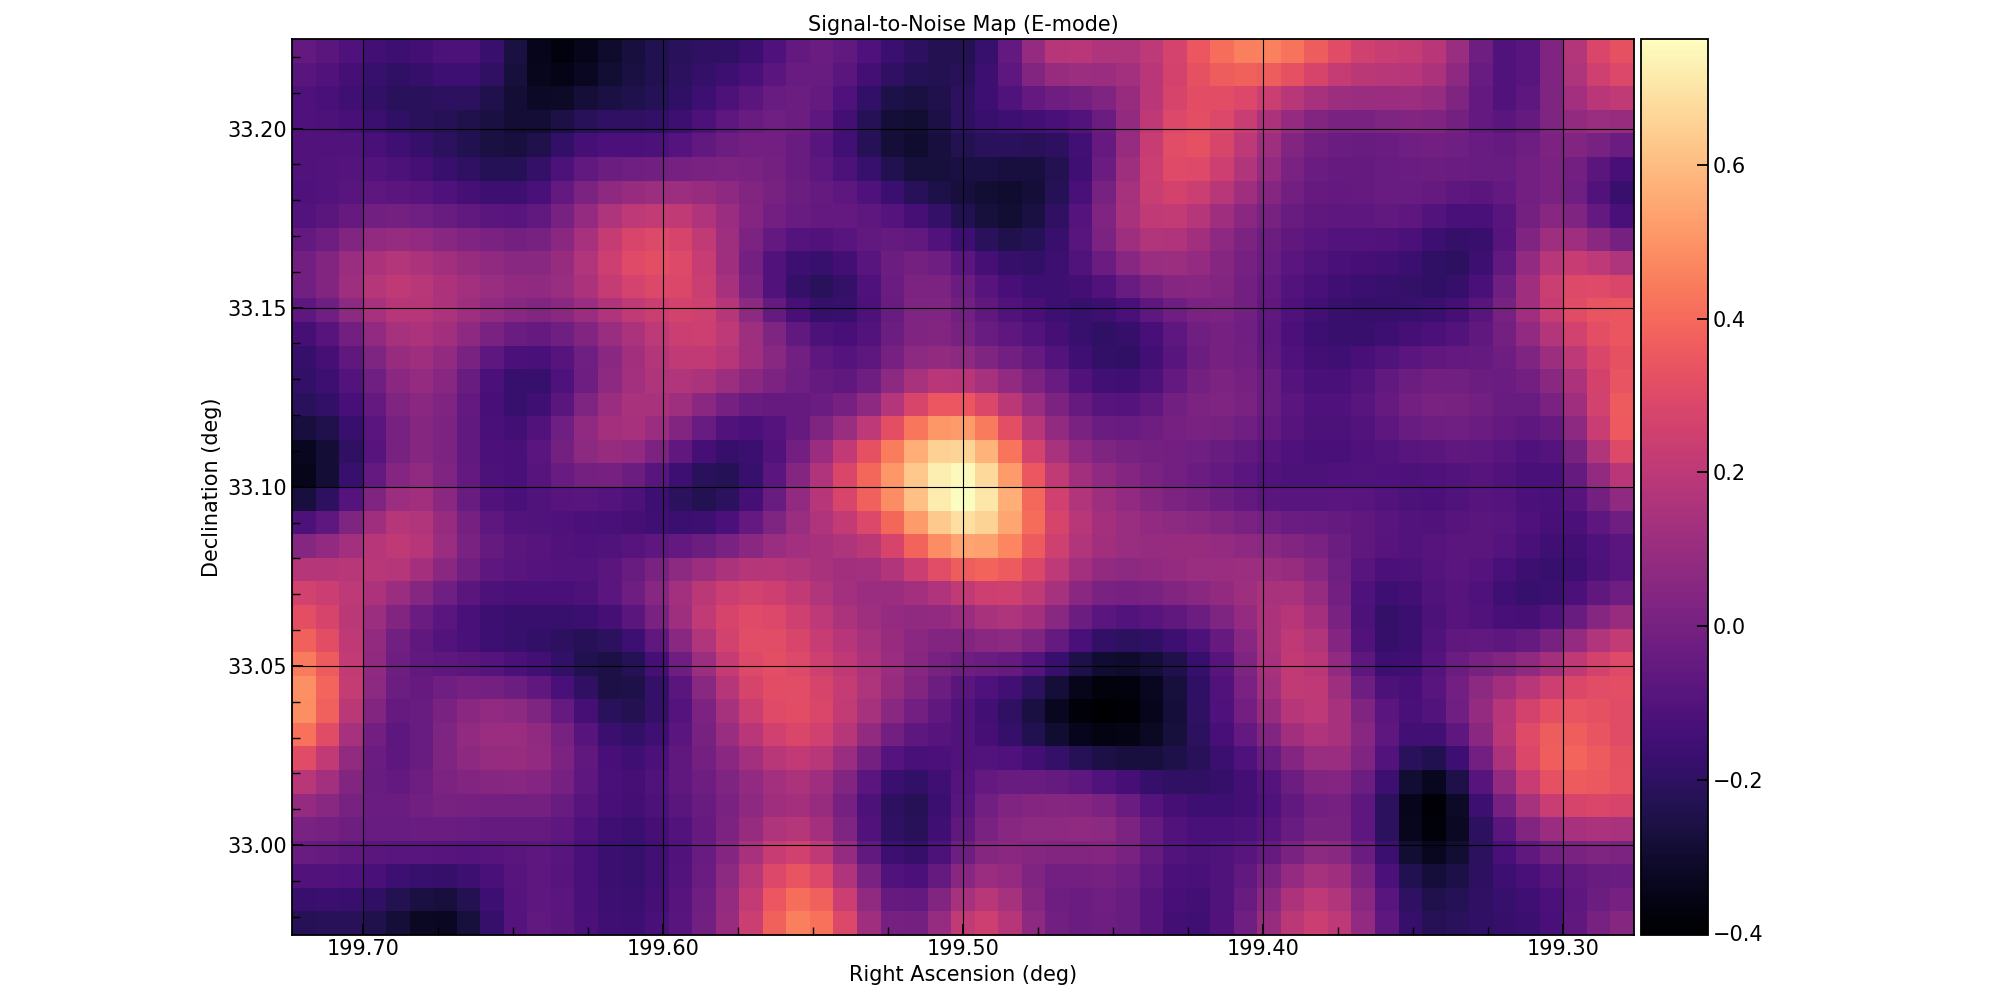
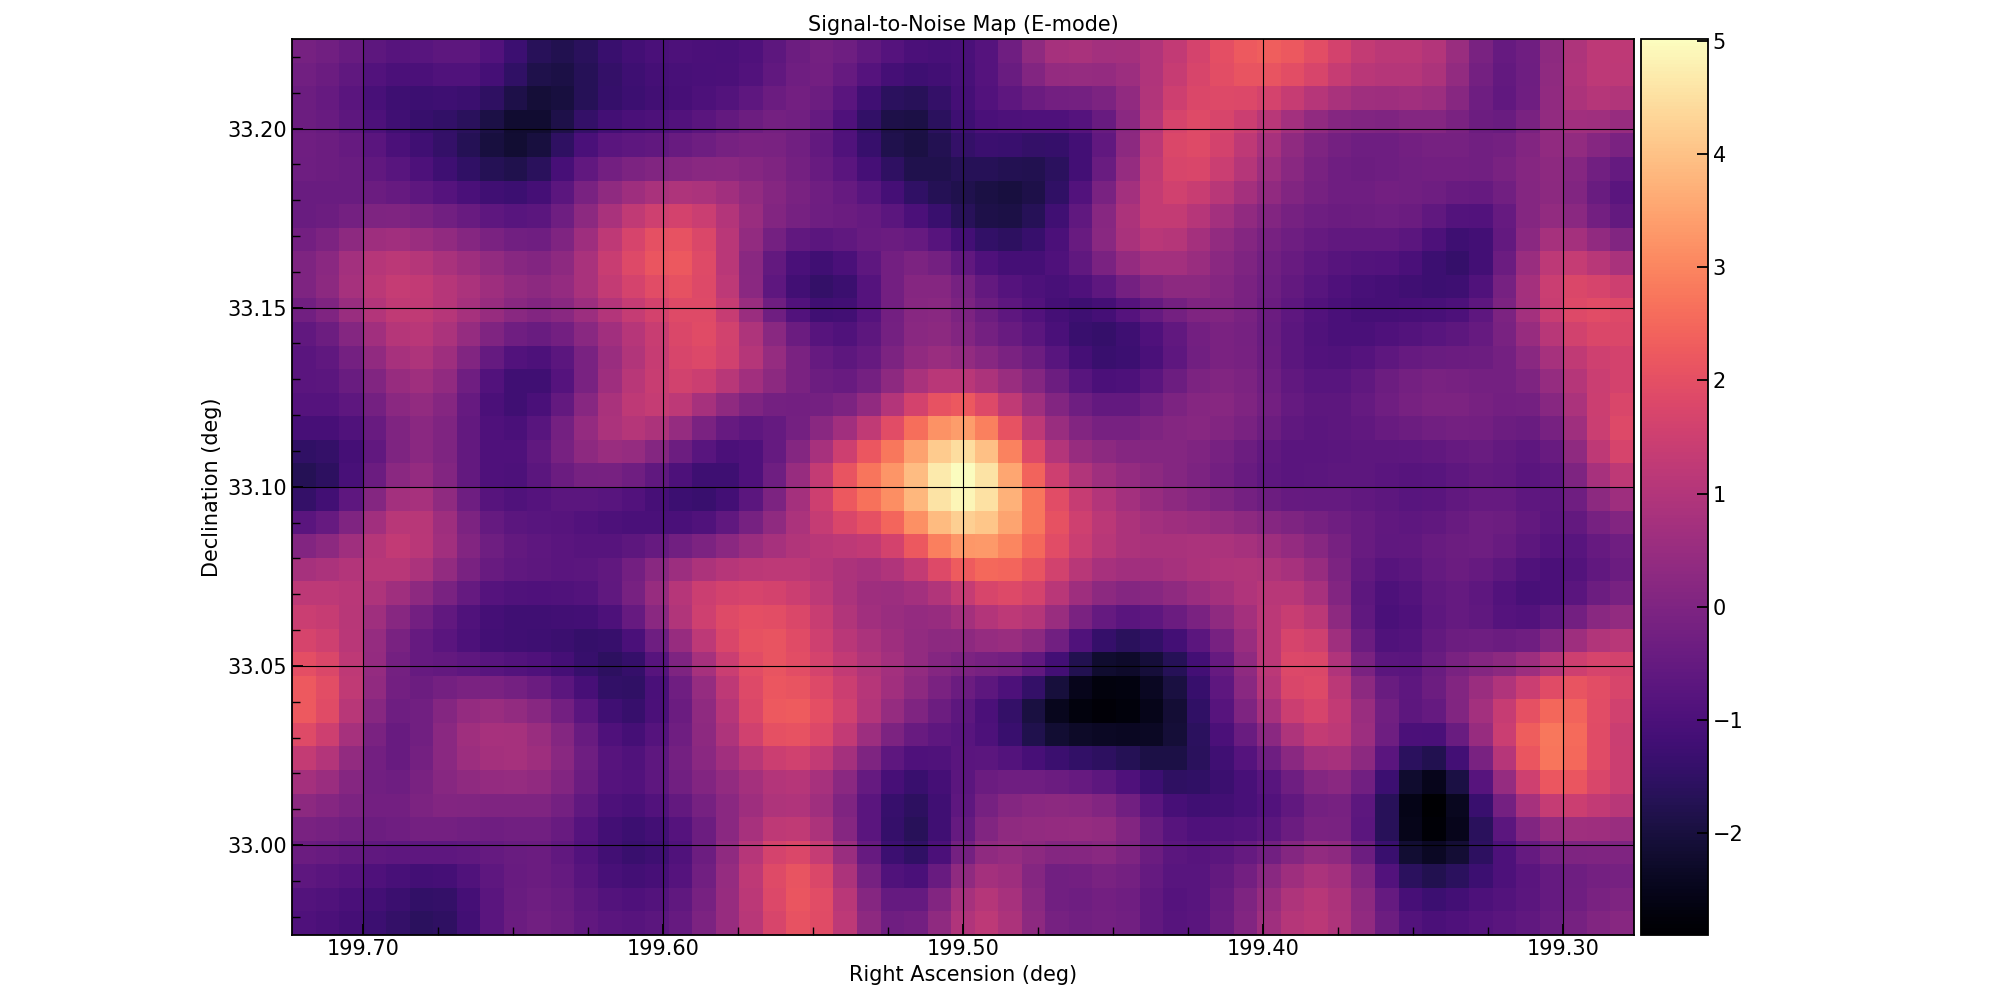
Organize run.py smoothing logic

diff --git a/smpy/error_quantification/snr/run.py b/smpy/error_quantification/snr/run.py
@@ -60,37 +60,35 @@ def create_sn_map(config, convergence_maps, scaled_boundaries, true_boundaries):
     # Calculate kappa for shuffled maps
     kappa_e_list, kappa_b_list = ks_inversion_list(g1_g2_map_list)
 
-    # Smoothing each individual shuffled map before taking the variance!! 
-    filtered_kappa_e_list = []
-    for element in kappa_e_list: 
-        element = gaussian_filter(element, config['gaussian_kernel'])
-        filtered_kappa_e_list.append(element)
-
-    filtered_kappa_b_list = []
-    for element in kappa_b_list: 
-        element = gaussian_filter(element, config['gaussian_kernel'])
-        filtered_kappa_b_list.append(element)
+    # Process maps - either smooth or keep as is
+    if config['smoothing'] == 'gaussian_filter':
+        processed_kappa_e_list = [gaussian_filter(k, config['gaussian_kernel']) for k in kappa_e_list]
+        processed_kappa_b_list = [gaussian_filter(k, config['gaussian_kernel']) for k in kappa_b_list]
+    else:
+        processed_kappa_e_list = kappa_e_list
+        processed_kappa_b_list = kappa_b_list
     
     # Calculate variance maps
-    variance_map_e = np.var(np.stack(filtered_kappa_e_list, axis=0), axis=0) if filtered_kappa_e_list else None
-    variance_map_b = np.var(np.stack(filtered_kappa_b_list, axis=0), axis=0) if filtered_kappa_b_list else None
+    variance_map_e = np.var(np.stack(processed_kappa_e_list, axis=0), axis=0)
+    variance_map_b = np.var(np.stack(processed_kappa_b_list, axis=0), axis=0)
     
-    # Initialize dictionary for signal-to-noise maps
+    # Create SNR maps
     sn_maps = {}
     
-    # Calculate signal-to-noise maps if the respective mode exists
-    if 'E' in convergence_maps and variance_map_e is not None:
-        smoothed_convergence_map_e = gaussian_filter(convergence_maps['E'], config['gaussian_kernel'])
-        sn_maps['E'] = smoothed_convergence_map_e / np.sqrt(variance_map_e)
+    if 'E' in convergence_maps:
+        convergence_e = convergence_maps['E']
+        if config['smoothing'] == 'gaussian_filter':
+            convergence_e = gaussian_filter(convergence_e, config['gaussian_kernel'])
+        sn_maps['E'] = convergence_e / np.sqrt(variance_map_e)
     
-    if 'B' in convergence_maps and variance_map_b is not None:
-        smoothed_convergence_map_e = gaussian_filter(convergence_maps['B'], config['gaussian_kernel'])
-        sn_maps['B'] = smoothed_convergence_map_e / np.sqrt(variance_map_b) 
+    if 'B' in convergence_maps:
+        convergence_b = convergence_maps['B']
+        if config['smoothing'] == 'gaussian_filter':
+            convergence_b = gaussian_filter(convergence_b, config['gaussian_kernel'])
+        sn_maps['B'] = convergence_b / np.sqrt(variance_map_b)
     
-    # Plot and save the SNR maps
-    modes = config['mode'] if isinstance(config['mode'], list) else [config['mode']]
-    
-    for mode in modes:
+    # Plot SNR maps
+    for mode in config['mode']:
         if mode in sn_maps:
             plot_config = config.copy()
             plot_config['plot_title'] = f'{config["plot_title"]} ({mode}-mode)'

diff --git a/smpy/mapping_methods/kaiser_squires/run.py b/smpy/mapping_methods/kaiser_squires/run.py
@@ -40,22 +40,30 @@ def create_convergence_map(config):
     modes = config['mode']
     kappa_e, kappa_b = kaiser_squires.ks_inversion(g1map, -g2map)
 
-    # Apply guassian smoothing -- this code is redudant and can certainly be shortned
-    # But I think keeping the E and B cases visually seperate is helpful
-    # and it only costs a few extra lines
-    convergence_maps = {}
-    if 'E' in modes:
-        convergence_maps['E'] = kappa_e
+    # Store unfiltered maps
+    convergence_maps = {
+        'E': kappa_e,
+        'B': kappa_b
+    }
+
+    # Plot and save the convergence maps
+    for mode in modes:
+        # Get the convergence map for plotting
+        plot_map = convergence_maps[mode]
         if config['smoothing'] == 'gaussian_filter':
-            filtered_convergence = gaussian_filter(kappa_e, config['gaussian_kernel'])
-        elif config['smoothing'] is None:
-            filtered_convergence = kappa_e
-    if 'B' in modes:
-        convergence_maps['B'] = kappa_b
-        if config['smoothing'] == 'gaussian_filter':
-            filtered_convergence = gaussian_filter(kappa_b, config['gaussian_kernel'])
-        elif config['smoothing'] is None:
-            filtered_convergence = kappa_b
+            plot_map = gaussian_filter(plot_map, config['gaussian_kernel'])
+
+        plot_config = config.copy()
+        plot_config['plot_title'] = f'{config["plot_title"]} ({mode}-mode)'
+        output_name = f"{config['output_directory']}{config['output_base_name']}_kaiser_squires_{mode.lower()}_mode.png"
+        plot.plot_convergence(plot_map, scaled_boundaries, true_boundaries, plot_config, output_name)
+
+        # Save the convergence map as a FITS file
+        if config.get('save_fits', False):
+            output_name = f"{config['output_directory']}{config['output_base_name']}_kaiser_squires_{mode.lower()}_mode.fits"
+            utils.save_convergence_fits(plot_map, scaled_boundaries, true_boundaries, config, output_name)
+
+    return convergence_maps, scaled_boundaries, true_boundaries
 
     
     # Plot and save the convergence maps

diff --git a/smpy/run.py b/smpy/run.py
@@ -15,14 +15,14 @@ def run(config_path):
     method = general_config.get('method', 'kaiser_squires')
     if method == 'kaiser_squires':
         ks_config = {**general_config, **config['convergence']}
-        convergence_map, scaled_boundaries, true_boundaries = ks_run.create_convergence_map(ks_config)
+        convergence_maps, scaled_boundaries, true_boundaries = ks_run.create_convergence_map(ks_config)
     else:
         raise ValueError(f"Unknown convergence method: {method}")
     
     # Create SNR map if requested
     if general_config.get('create_snr', False):
         snr_config = {**general_config, **config['snr']}
-        snr_run.create_sn_map(snr_config, convergence_map, scaled_boundaries, true_boundaries)
+        snr_run.create_sn_map(snr_config, convergence_maps, scaled_boundaries, true_boundaries)
 
 if __name__ == "__main__":
     import sys
